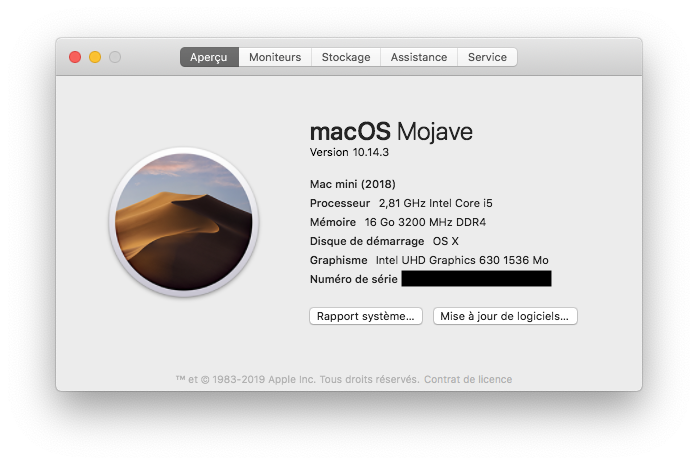
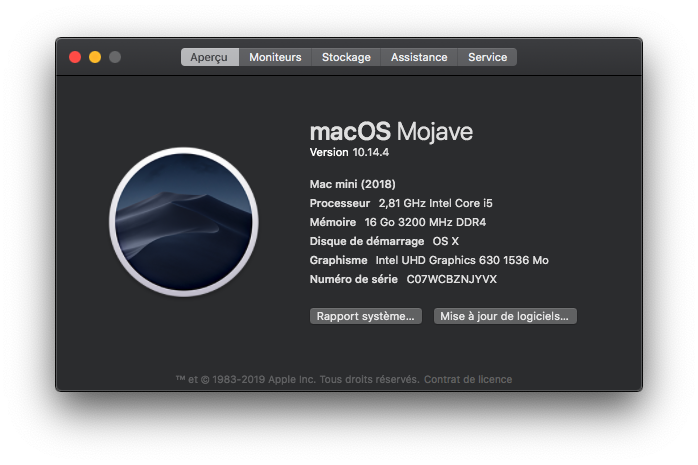
updated to 10.4.4

diff --git a/README.md b/README.md
@@ -4,7 +4,7 @@
 
 I built my Hackintosh because I was disappointed with the price of the new Mac Mini 2018. Its configuration is close to the new mid-entry Mac Mini but with more RAM (16 instead of 8 Gb). Here are the specs:
 
-- MacOS Mojave 10.14.3
+- MacOS Mojave 10.14.4
 - Intel i5-8400 (6 cores @ 2.80 Ghz, 3.80 Ghz Turbo Boost)
 - Gigabyte Z370 HD3P
 - Corsair Vengeance LPX 16Gb (2x8Gb) DDR4 2666MHz OC @ 3200Mhz
